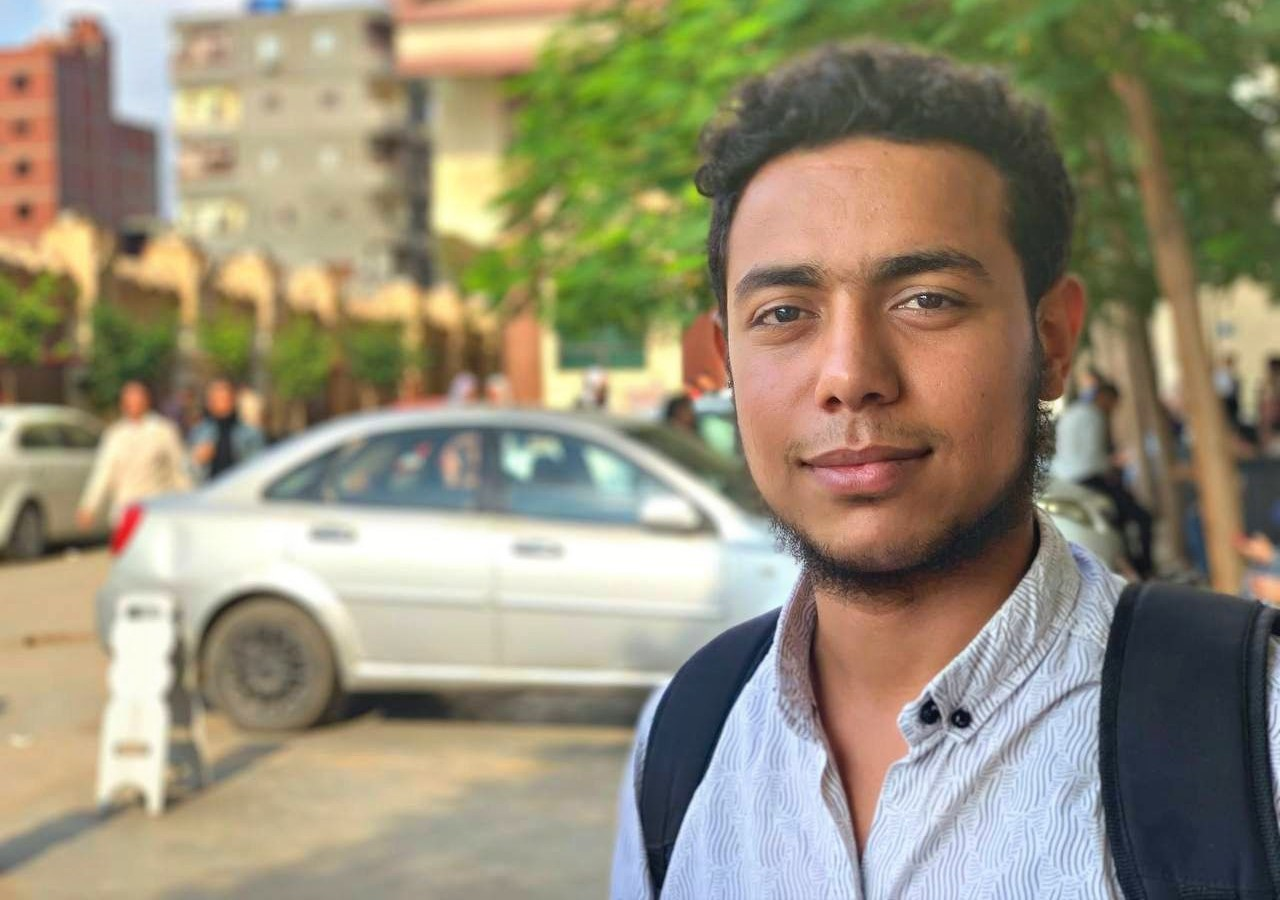
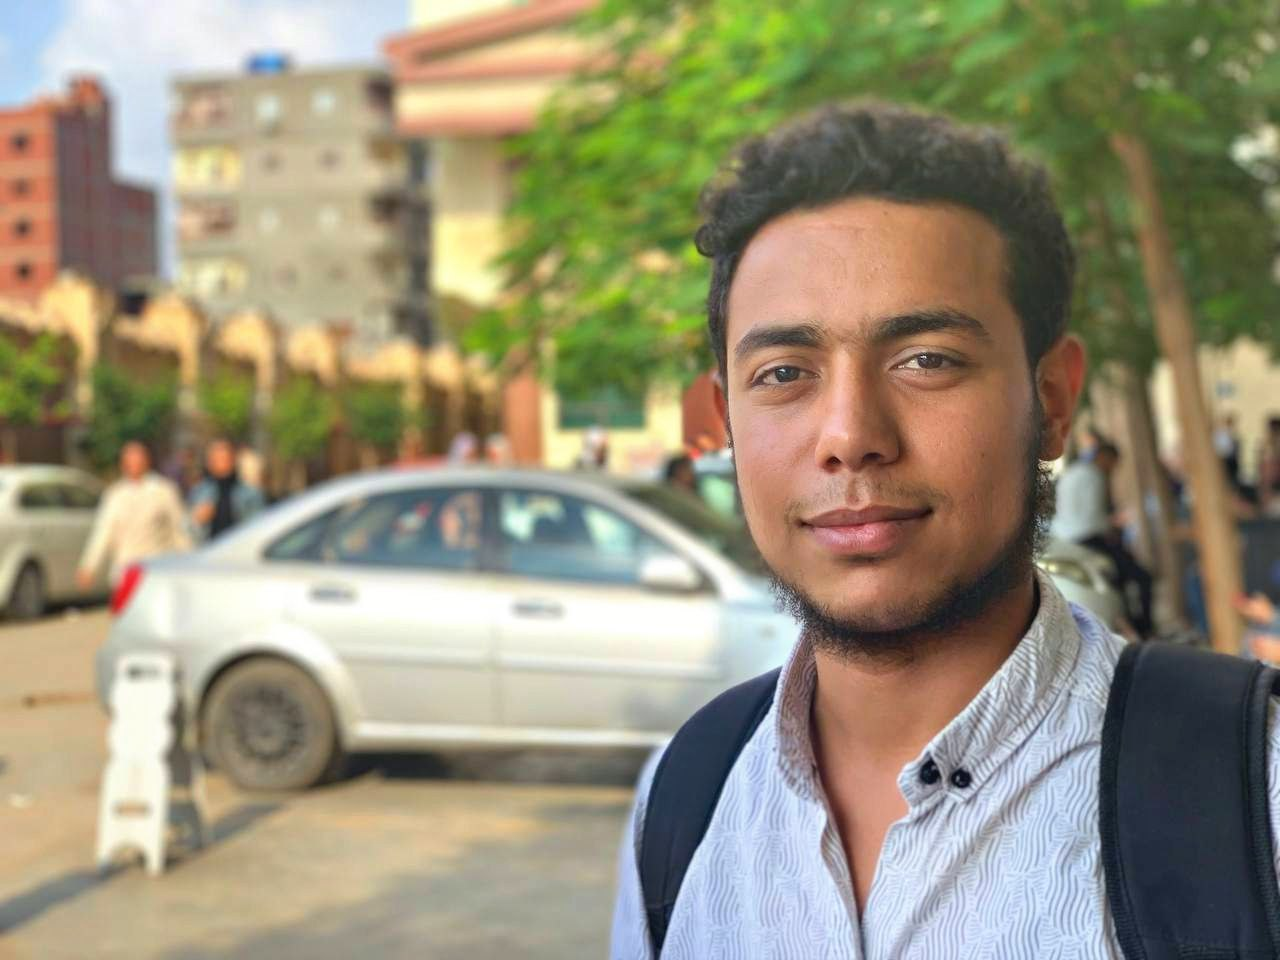
Edit Image in Home Page

diff --git a/src/Pages/Home/Home.css b/src/Pages/Home/Home.css
@@ -3,7 +3,7 @@
     --navName: #262834;
 }
 .Home{
-  background-image: url("../../Image/Home-Avtar.jpg");
+  background: url("../../Image/Home-Avtar.jpg") center ;
   height: 100vh;
   background-repeat: no-repeat;
   background-size: cover;

diff --git a/src/Pages/Home/Home.js b/src/Pages/Home/Home.js
@@ -15,7 +15,7 @@ const Home = () => {
           </div>
           <SocialMedia />
         </div>
-        <div className="ms-5">
+        <div className="ms-4">
           <PDFCV />
         </div>
       </div>
